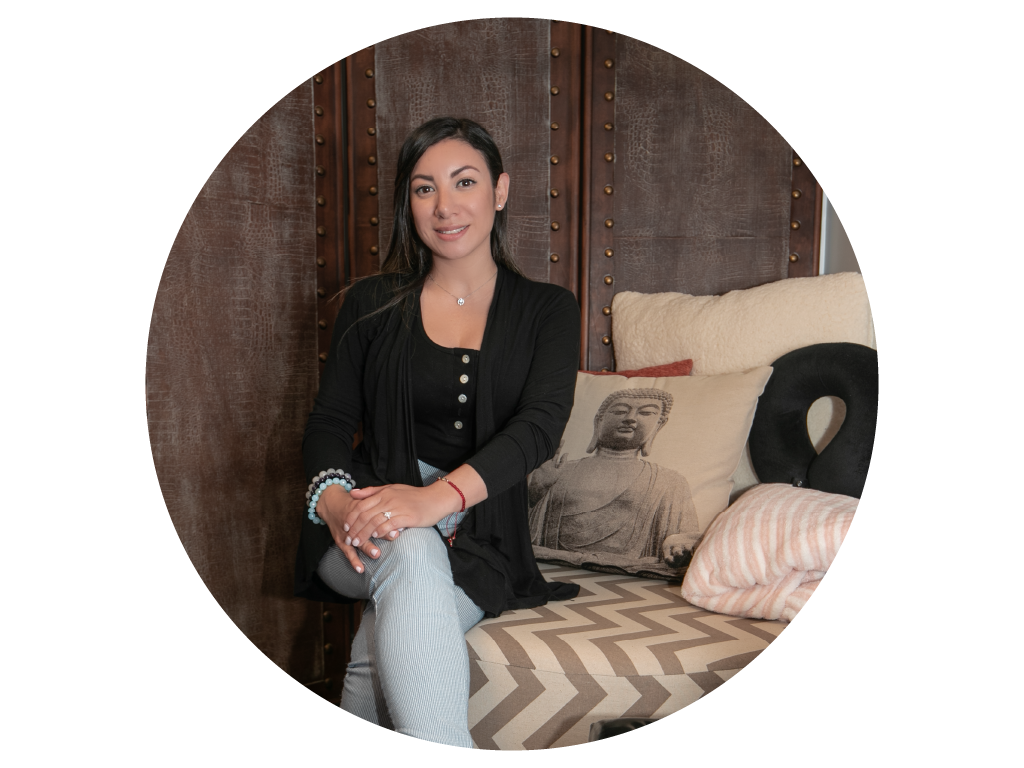
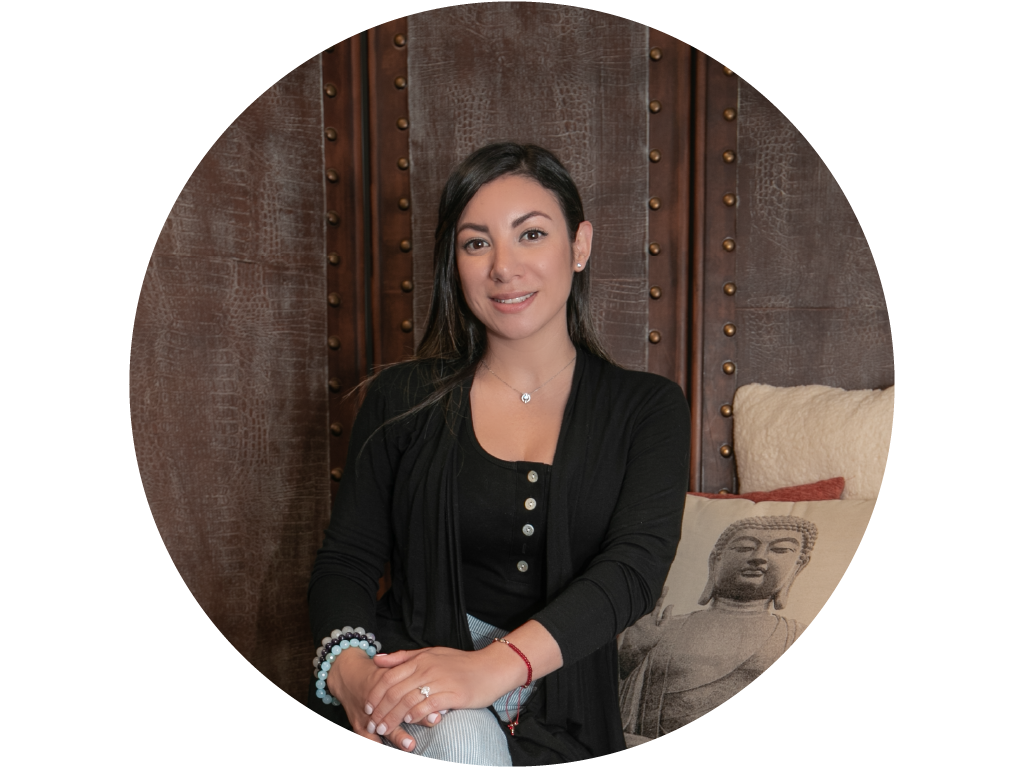
Adicion de cambios por el cliente
Se cambian los textos del encabezado y se agregan los testimonios, junto cambios de texto

diff --git a/index.html b/index.html
@@ -67,7 +67,7 @@
          <div class="col-md-6 text-center text-md-left">
             <span>Empowering your Wellness</span>
             <h3>Journey Through Holistic Care</h3>
-            <a href="#" class="link-btn">Book now</a>
+            <a href="https://www.massagebook.com/biz/AkashaHolisticHealth" target="_blank" rel="noopener noreferrer" class="link-btn">Book now</a>
          </div>
 
          <div class="overlay"></div>
@@ -84,9 +84,11 @@
             <span>Holistic Practice Philosophy</span>
             <h3>Meet Rosa – Founder of Akasha Holistic Health & Wellness</h3>
             <p>Rosa is a passionate holistic health professional with over 15 years of experience in bodywork, energy healing, and integrative wellness. She holds a Master's degree in Integrative Health from Georgian Court University and has dedicated her career to supporting individuals on their journey toward healing and wholeness.
-               <br><br>
+               <br>
                Her mission is to help people reconnect with their bodies, minds, and spirit through personalized care that hon
             </p>
+            <hr>
+            <span style="font-size: 1.5rem;">Holistic Health Practitioner - License number 18KT01085100</span>
 
          </div>
 
@@ -103,23 +105,53 @@
 
       <div class="box">
          <h3>40+</h3>
-         <p>groupal sessions</p>
+         <p>Text 1</p>
       </div>
 
       <div class="box">
          <h3>320+</h3>
-         <p>healing clients</p>
+         <p>Text 2</p>
       </div>
 
       <div class="box">
          <h3>180+</h3>
-         <p>groupal classes</p>
+         <p>Text 3</p>
       </div>
 
       <div class="box">
          <h3>560+</h3>
-         <p>satiesfied clients</p>
+         <p>Text 4</p>
       </div>
+   </div>
+</section>
+
+<!-- testimonials section starts  -->
+<section class="testimonials" id="testimonials">
+   <div class="heading">
+      <span>testimonials</span>
+      <h3>what our clients say</h3>
+   </div>
+
+   <div class="box-container container">
+
+      <div class="box">
+         <img src="./images/tm-1.png" alt="Testiomnial 1">
+         <p>"Text 1"</p>
+         <h3>Client Name 1</h3>
+      </div>
+
+      <div class="box">
+         <img src="./images/tm-2.png" alt="Testiomnial 2">
+         <p>"Text 2"</p>
+         <h3>Client Name 2</h3>
+      </div>
+
+      <div class="box">
+         <img src="./images/tm-3.png" alt="Testiomnial 3">
+         <p>"Text 3"</p>
+         <h3>Client Name 3</h3>
+      </div>
+
    </div>
 </section>
 
@@ -243,14 +275,13 @@
          <h3>contact info</h3>
          <a href="#"> <i class="fas fa-phone"></i> +732 840 3000 </a>
          <a href="#"> <i class="fas fa-envelope"></i> akasha.spa.nj@gmail.com </a>
-         <a href="#"> <i class="fas fa-map"></i> Point Pleasant, NJ 08742 <br> 2424 Bridge Avenue </a>
+         <a href="#"> <i class="fas fa-map"></i> 2424 Bridge Ave Suite 1 <br> Point pleasant, NJ 08742 </a>
       </div>
 
       <div class="box-f">
          <h3>follow us</h3>
          <a href="#"> <i class="fab fa-facebook-f"></i> facebook </a>
          <a href="#"> <i class="fab fa-instagram"></i> instagram </a>
-         <a href="#"> <i class="fab fa-linkedin"></i> linkedin </a>
       </div>
 
    </div>

diff --git a/teams.html b/teams.html
@@ -52,15 +52,15 @@
 
       <div class="heading">
        <span>our team</span>
-       <h3>meet the expert team</h3>
+       <h3>meet the practitioners</h3>
       </div>
 
       <div class="box-container container">
         <div class="box">
          <img src="./images/woman-657753_1920.jpg" alt="">
          <div class="content">
-            <span>yoga trainer</span>
-            <h3>someone's name</h3>
+            <span>Lead Massage Therapist</span>
+            <h3>Danielle Dziedzic</h3>
          </div>
          <div class="share">
             <a href="#" class="fab fa-facebook-f"></a>
@@ -71,9 +71,9 @@
         </div>
 
         <div class="box">
-          <img src="./images/AN8I7204.jpg" alt="">
+          <img src="./images/team2.jpg" alt="Rosa Silk Picture">
           <div class="content">
-             <span>yoga trainer</span>
+             <span>Holistic Health Practitioner, MA., LMT</span>
              <h3>Rosa Silk</h3>
           </div>
           <div class="share">
@@ -87,8 +87,8 @@
         <div class="box">
           <img src="./images/girl-3033718_1920.jpg" alt="">
           <div class="content">
-             <span>yoga trainer</span>
-             <h3>someone's name</h3>
+             <span>Holistic Health Practitioner, MA.</span>
+             <h3>Mary Ann Billerman</h3>
           </div>
           <div class="share">
              <a href="#" class="fab fa-facebook-f"></a>
@@ -121,14 +121,13 @@
           <h3>contact info</h3>
           <a href="#"> <i class="fas fa-phone"></i> +732 840 3000 </a>
           <a href="#"> <i class="fas fa-envelope"></i> akasha.spa.nj@gmail.com </a>
-          <a href="#"> <i class="fas fa-map"></i> Point Pleasant, NJ 08742 <br> 2424 Bridge Avenue </a>
+          <a href="#"> <i class="fas fa-map"></i> 2424 Bridge Ave Suite 1 <br> Point pleasant, NJ 08742 </a>
         </div>
 
         <div class="box-f">
           <h3>follow us</h3>
           <a href="#"> <i class="fab fa-facebook-f"></i> facebook </a>
           <a href="#"> <i class="fab fa-instagram"></i> instagram </a>
-          <a href="#"> <i class="fab fa-linkedin"></i> linkedin </a>
         </div>
 
       </div>

diff --git a/contact.html b/contact.html
@@ -58,20 +58,20 @@
    </div>
 
    <div class="container contact-info">
-   <div class="row">
-     <div class="col-md-9">
-       <div class="info">
-         <h3>Contact Information</h3>
-         <div class="details">
-           <p><i class="fas fa-phone"></i> +732 840 3000</p>
-           <p><i class="fas fa-envelope"></i> test@test.com</p>
-           <p><i class="fas fa-map"></i> Point Pleasant, NJ 08742 <br> 2424 Bridge Avenue</p>
-           <p><i class="fas fa-clock"></i> Mon - Fri: 9:00 AM - 6:00 PM <br> Sat - Sun: 10:00 AM - 4:00 PM</p>
+      <div class="row">
+         <div class="col-md-9">
+            <div class="info">
+               <h3>Contact Information</h3>
+               <div class="details">
+               <p><i class="fas fa-phone"></i> +732 840 3000</p>
+               <p><i class="fas fa-envelope"></i> akasha.spa.nj@gmail.com</p>
+               <p><i class="fas fa-map"></i> 2424 Bridge Ave Suite 1 <br> Point pleasant, NJ 08742</p>
+               <p><i class="fas fa-clock"></i> Tue - Sat: 9:00 AM - 6:00 PM <br> By Appointment only </p>
+               </div>
+            </div>
          </div>
-       </div>
-     </div>
+      </div>
    </div>
-</div>
 
 </section>
 
@@ -110,14 +110,13 @@
          <h3>contact info</h3>
          <a href="#"> <i class="fas fa-phone"></i> +732 840 3000 </a>
          <a href="#"> <i class="fas fa-envelope"></i> akasha.spa.nj@gmail.com </a>
-         <a href="#"> <i class="fas fa-map"></i> Point Pleasant, NJ 08742 <br> 2424 Bridge Avenue </a>
+         <a href="#"> <i class="fas fa-map"></i> 2424 Bridge Ave Suite 1 <br> Point pleasant, NJ 08742 </a>
       </div>
 
       <div class="box-f">
          <h3>follow us</h3>
          <a href="#"> <i class="fab fa-facebook-f"></i> facebook </a>
          <a href="#"> <i class="fab fa-instagram"></i> instagram </a>
-         <a href="#"> <i class="fab fa-linkedin"></i> linkedin </a>
       </div>
 
    </div>

diff --git a/css/style.css b/css/style.css
@@ -129,16 +129,18 @@ section {
   position: relative;
 }
 
+.dropdown .dropdown-content a {
+  font-size: 1.6rem !important;
+}
+
 .dropdown-content {
   display: none;
   position: absolute;
   top: 100%;
   left: 2rem;
-  min-width: 15rem;
-  /* background-color: rgba(255, 255, 255, 0.2); */
-  padding: 1rem;
+  padding-inline: 0rem;
+  min-width: 22rem;
   border-radius: 0.5rem;
-  /* box-shadow: 0 4px 6px rgba(0, 0, 0, 0.2); */
   z-index: 10;
 }
 
@@ -305,7 +307,41 @@ section {
   color: var(--cream);
 }
 
+/*---- Testimonials section ----*/
+.testimonials .box-container {
+  display: -ms-grid;
+  display: grid;
+  -ms-grid-columns: (minmax(30rem, 1fr))[auto-fit];
+      grid-template-columns: repeat(auto-fit, minmax(30rem, 1fr));
+  gap: 2rem;
+}
+
+.testimonials .box-container .box {
+  background: var(--cream);
+  padding: 2rem;
+  border-radius: 1rem;
+  box-shadow: 0 0 1rem rgba(0, 0, 0, 0.1);
+}
+
+.testimonials .box-container .box:hover {
+  box-shadow: 0 0 1.5rem rgba(0, 0, 0, 0.2);
+}
+
+.testimonials .box-container .box img {
+  width: 15rem;
+  display: flex;
+  align-items: center;
+  height: auto;
+  border-radius: 50%;
+  overflow: hidden;
+  margin: 0 auto;
+}
+
 /*---- Courses section ----*/
+.courses {
+  background: var(--cream-hover);
+}
+
 .courses .box-container {
   display: -ms-grid;
   display: grid;

diff --git a/cryotherapy.html b/cryotherapy.html
@@ -124,14 +124,13 @@
          <h3>contact info</h3>
          <a href="#"> <i class="fas fa-phone"></i> +732 840 3000 </a>
          <a href="#"> <i class="fas fa-envelope"></i> akasha.spa.nj@gmail.com </a>
-         <a href="#"> <i class="fas fa-map"></i> Point Pleasant, NJ 08742 <br> 2424 Bridge Avenue </a>
+         <a href="#"> <i class="fas fa-map"></i> 2424 Bridge Ave Suite 1 <br> Point pleasant, NJ 08742 </a>
       </div>
 
       <div class="box-f">
          <h3>follow us</h3>
          <a href="#"> <i class="fab fa-facebook-f"></i> facebook </a>
          <a href="#"> <i class="fab fa-instagram"></i> instagram </a>
-         <a href="#"> <i class="fab fa-linkedin"></i> linkedin </a>
       </div>
 
    </div>
